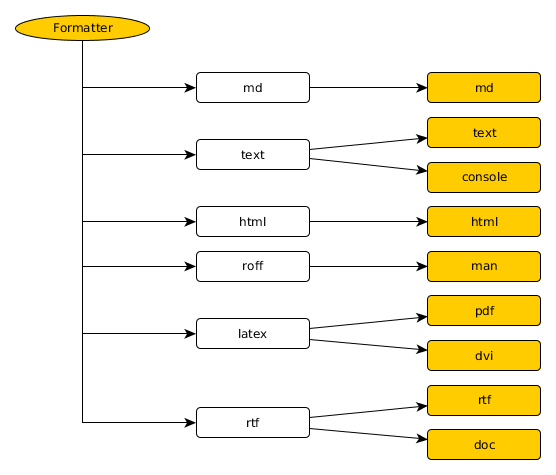
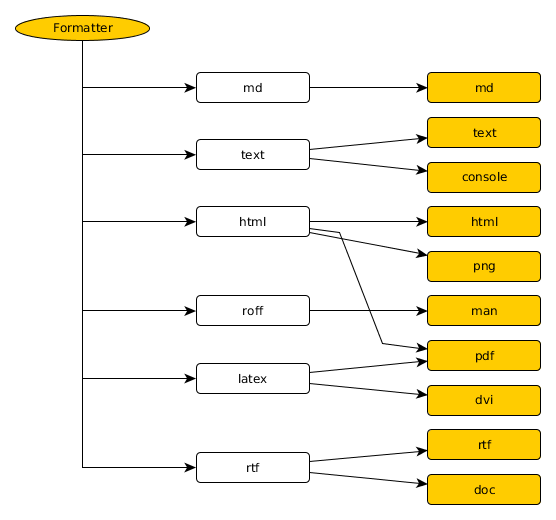
Updated overview graphics for documentation.

Changed region(s): [[0.1529, 0.1179, 0.9784, 0.9726], [0.0306, 0.0295, 0.2752, 0.0884]]

diff --git a/README.md b/README.md
@@ -159,7 +159,7 @@ Coming soon...
 License
 -------------------------------------------------
 
-(C) Copyright 2016-20117 Alexander Schilling
+(C) Copyright 2016-2017 Alexander Schilling
 
 Licensed under the Apache License, Version 2.0 (the "License");
 you may not use this file except in compliance with the License.
